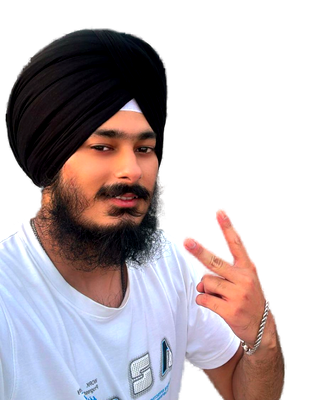
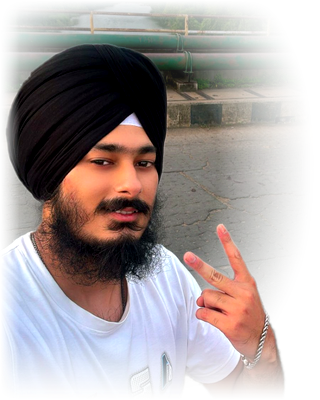
Hero portraits keep their backgrounds and fade softly into black; add /alt with the full-figure river photo

diff --git a/src/v2/V2.tsx b/src/v2/V2.tsx
@@ -234,7 +234,21 @@ function TopBar({ lenis }: { lenis: React.MutableRefObject<Lenis | null> }) {
 
 /* ---------------------------------------------------------------- hero */
 
-function Hero({ ready, lenis }: { ready: boolean; lenis: React.MutableRefObject<Lenis | null> }) {
+export type Portrait = { ascii: string; reveal: string };
+const DEFAULT_PORTRAIT: Portrait = {
+  ascii: `${BASE}v2/portrait-ascii.png`,
+  reveal: `${BASE}v2/portrait-reveal.webp`,
+};
+
+function Hero({
+  ready,
+  lenis,
+  portrait,
+}: {
+  ready: boolean;
+  lenis: React.MutableRefObject<Lenis | null>;
+  portrait: Portrait;
+}) {
   const reduced = useReduced();
   const ref = useRef<HTMLElement>(null);
   const { scrollYProgress } = useScroll({ target: ref, offset: ["start start", "end start"] });
@@ -245,11 +259,7 @@ function Hero({ ready, lenis }: { ready: boolean; lenis: React.MutableRefObject<
     <section ref={ref} className="v2-hero" id="v2-top">
       <div className="v2-hero-art">
         {ready && (
-          <AsciiPortrait
-            src={`${BASE}v2/portrait-ascii.png`}
-            revealSrc={`${BASE}v2/portrait-reveal.webp`}
-            reduced={reduced}
-          />
+          <AsciiPortrait src={portrait.ascii} revealSrc={portrait.reveal} reduced={reduced} />
         )}
       </div>
       <motion.div className="v2-hero-copy" style={{ y, opacity: fade }}>
@@ -764,7 +774,7 @@ function Contact() {
 
 /* ---------------------------------------------------------------- page */
 
-export function V2() {
+export function V2({ portrait = DEFAULT_PORTRAIT }: { portrait?: Portrait } = {}) {
   const [ready, setReady] = useState(false);
   const [preGone, setPreGone] = useState(false);
   const lenis = useRef<Lenis | null>(null);
@@ -795,7 +805,7 @@ export function V2() {
       <div className="v2-grain" aria-hidden />
       <TopBar lenis={lenis} />
       <main>
-        <Hero ready={ready} lenis={lenis} />
+        <Hero ready={ready} lenis={lenis} portrait={portrait} />
         <Statement />
         <Work />
         <Experience />

diff --git a/src/routeTree.gen.ts b/src/routeTree.gen.ts
@@ -10,33 +10,43 @@
 
 import { Route as rootRouteImport } from './routes/__root'
 import { Route as IndexRouteImport } from './routes/index'
+import { Route as AltRouteImport } from './routes/alt'
 
 const IndexRoute = IndexRouteImport.update({
   id: '/',
   path: '/',
   getParentRoute: () => rootRouteImport,
 } as any)
+const AltRoute = AltRouteImport.update({
+  id: '/alt',
+  path: '/alt',
+  getParentRoute: () => rootRouteImport,
+} as any)
 
 export interface FileRoutesByFullPath {
   '/': typeof IndexRoute
+  '/alt': typeof AltRoute
 }
 export interface FileRoutesByTo {
   '/': typeof IndexRoute
+  '/alt': typeof AltRoute
 }
 export interface FileRoutesById {
   __root__: typeof rootRouteImport
   '/': typeof IndexRoute
+  '/alt': typeof AltRoute
 }
 export interface FileRouteTypes {
   fileRoutesByFullPath: FileRoutesByFullPath
-  fullPaths: '/'
+  fullPaths: '/' | '/alt'
   fileRoutesByTo: FileRoutesByTo
-  to: '/'
-  id: '__root__' | '/'
+  to: '/' | '/alt'
+  id: '__root__' | '/' | '/alt'
   fileRoutesById: FileRoutesById
 }
 export interface RootRouteChildren {
   IndexRoute: typeof IndexRoute
+  AltRoute: typeof AltRoute
 }
 
 declare module '@tanstack/react-router' {
@@ -48,11 +58,19 @@ declare module '@tanstack/react-router' {
       preLoaderRoute: typeof IndexRouteImport
       parentRoute: typeof rootRouteImport
     }
+    '/alt': {
+      id: '/alt'
+      path: '/alt'
+      fullPath: '/alt'
+      preLoaderRoute: typeof AltRouteImport
+      parentRoute: typeof rootRouteImport
+    }
   }
 }
 
 const rootRouteChildren: RootRouteChildren = {
   IndexRoute: IndexRoute,
+  AltRoute: AltRoute,
 }
 export const routeTree = rootRouteImport
   ._addFileChildren(rootRouteChildren)

diff --git a/src/routes/alt.tsx b/src/routes/alt.tsx
@@ -1,0 +1,34 @@
+import { createFileRoute } from "@tanstack/react-router";
+import v2Css from "../v2/v2.css?url";
+import { V2 } from "../v2/V2";
+
+const BASE = import.meta.env.BASE_URL;
+
+// Same page as the homepage, with the alternate hero portrait (river photo).
+function AltPage() {
+  return (
+    <V2
+      portrait={{
+        ascii: `${BASE}v2/portrait-alt-ascii.png`,
+        reveal: `${BASE}v2/portrait-alt-reveal.webp`,
+      }}
+    />
+  );
+}
+
+export const Route = createFileRoute("/alt")({
+  head: () => ({
+    meta: [
+      { title: "Harmeet Singh — Software Developer (alt)" },
+      { name: "robots", content: "noindex" },
+    ],
+    links: [
+      {
+        rel: "stylesheet",
+        href: "https://fonts.googleapis.com/css2?family=Instrument+Serif:ital@0;1&family=Inter+Tight:wght@400;500;600&display=swap",
+      },
+      { rel: "stylesheet", href: v2Css },
+    ],
+  }),
+  component: AltPage,
+});
